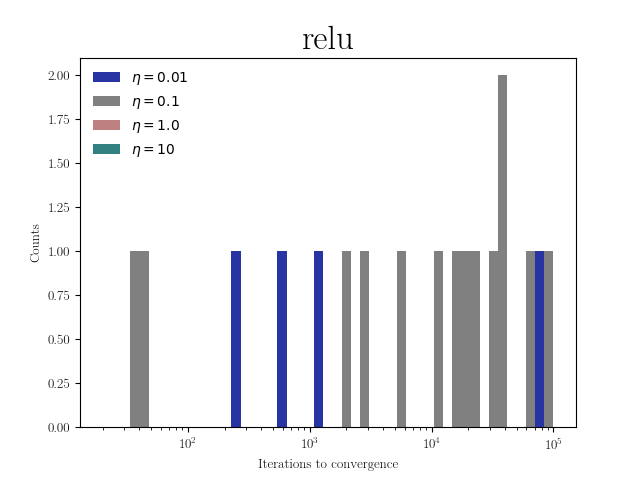
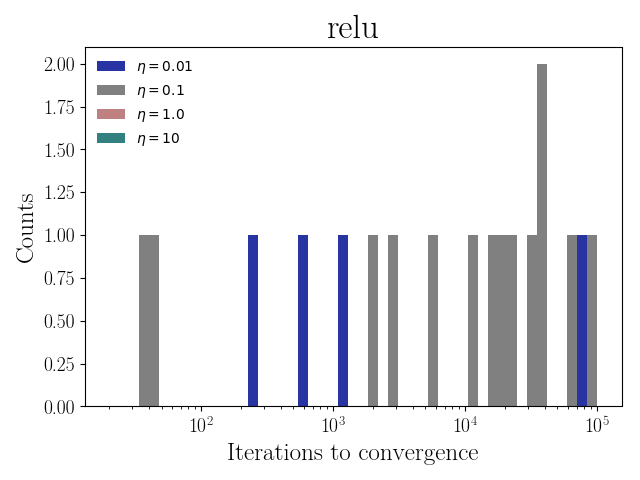
Full update

diff --git a/assignment1.py b/assignment1.py
@@ -370,8 +370,10 @@ for name in ['sig', 'relu', 'tanh']:
    for j, eta in enumerate([0.01, 0.1, 1.0, 10]):
       plt.hist(len_list[eta], color = colors[j], label = r'$\eta = {}$'.format(eta), bins = np.logspace(1.3, 5, 50))
 
-   plt.xlabel('Iterations to convergence')
-   plt.ylabel('Counts')
+   plt.xlabel('Iterations to convergence', fontsize = 18)
+   plt.ylabel('Counts', fontsize = 18)
+
+   plt.tick_params('both', labelsize=14)
 
    plt.xscale('log')
 
@@ -381,6 +383,7 @@ for name in ['sig', 'relu', 'tanh']:
 
    plt.title('{}'.format(name), fontsize = 25)
 
+   plt.tight_layout()
    plt.savefig('Task5_{}_hist.pdf'.format(name))
    plt.savefig('Task5_{}_hist.png'.format(name))
    plt.show()
